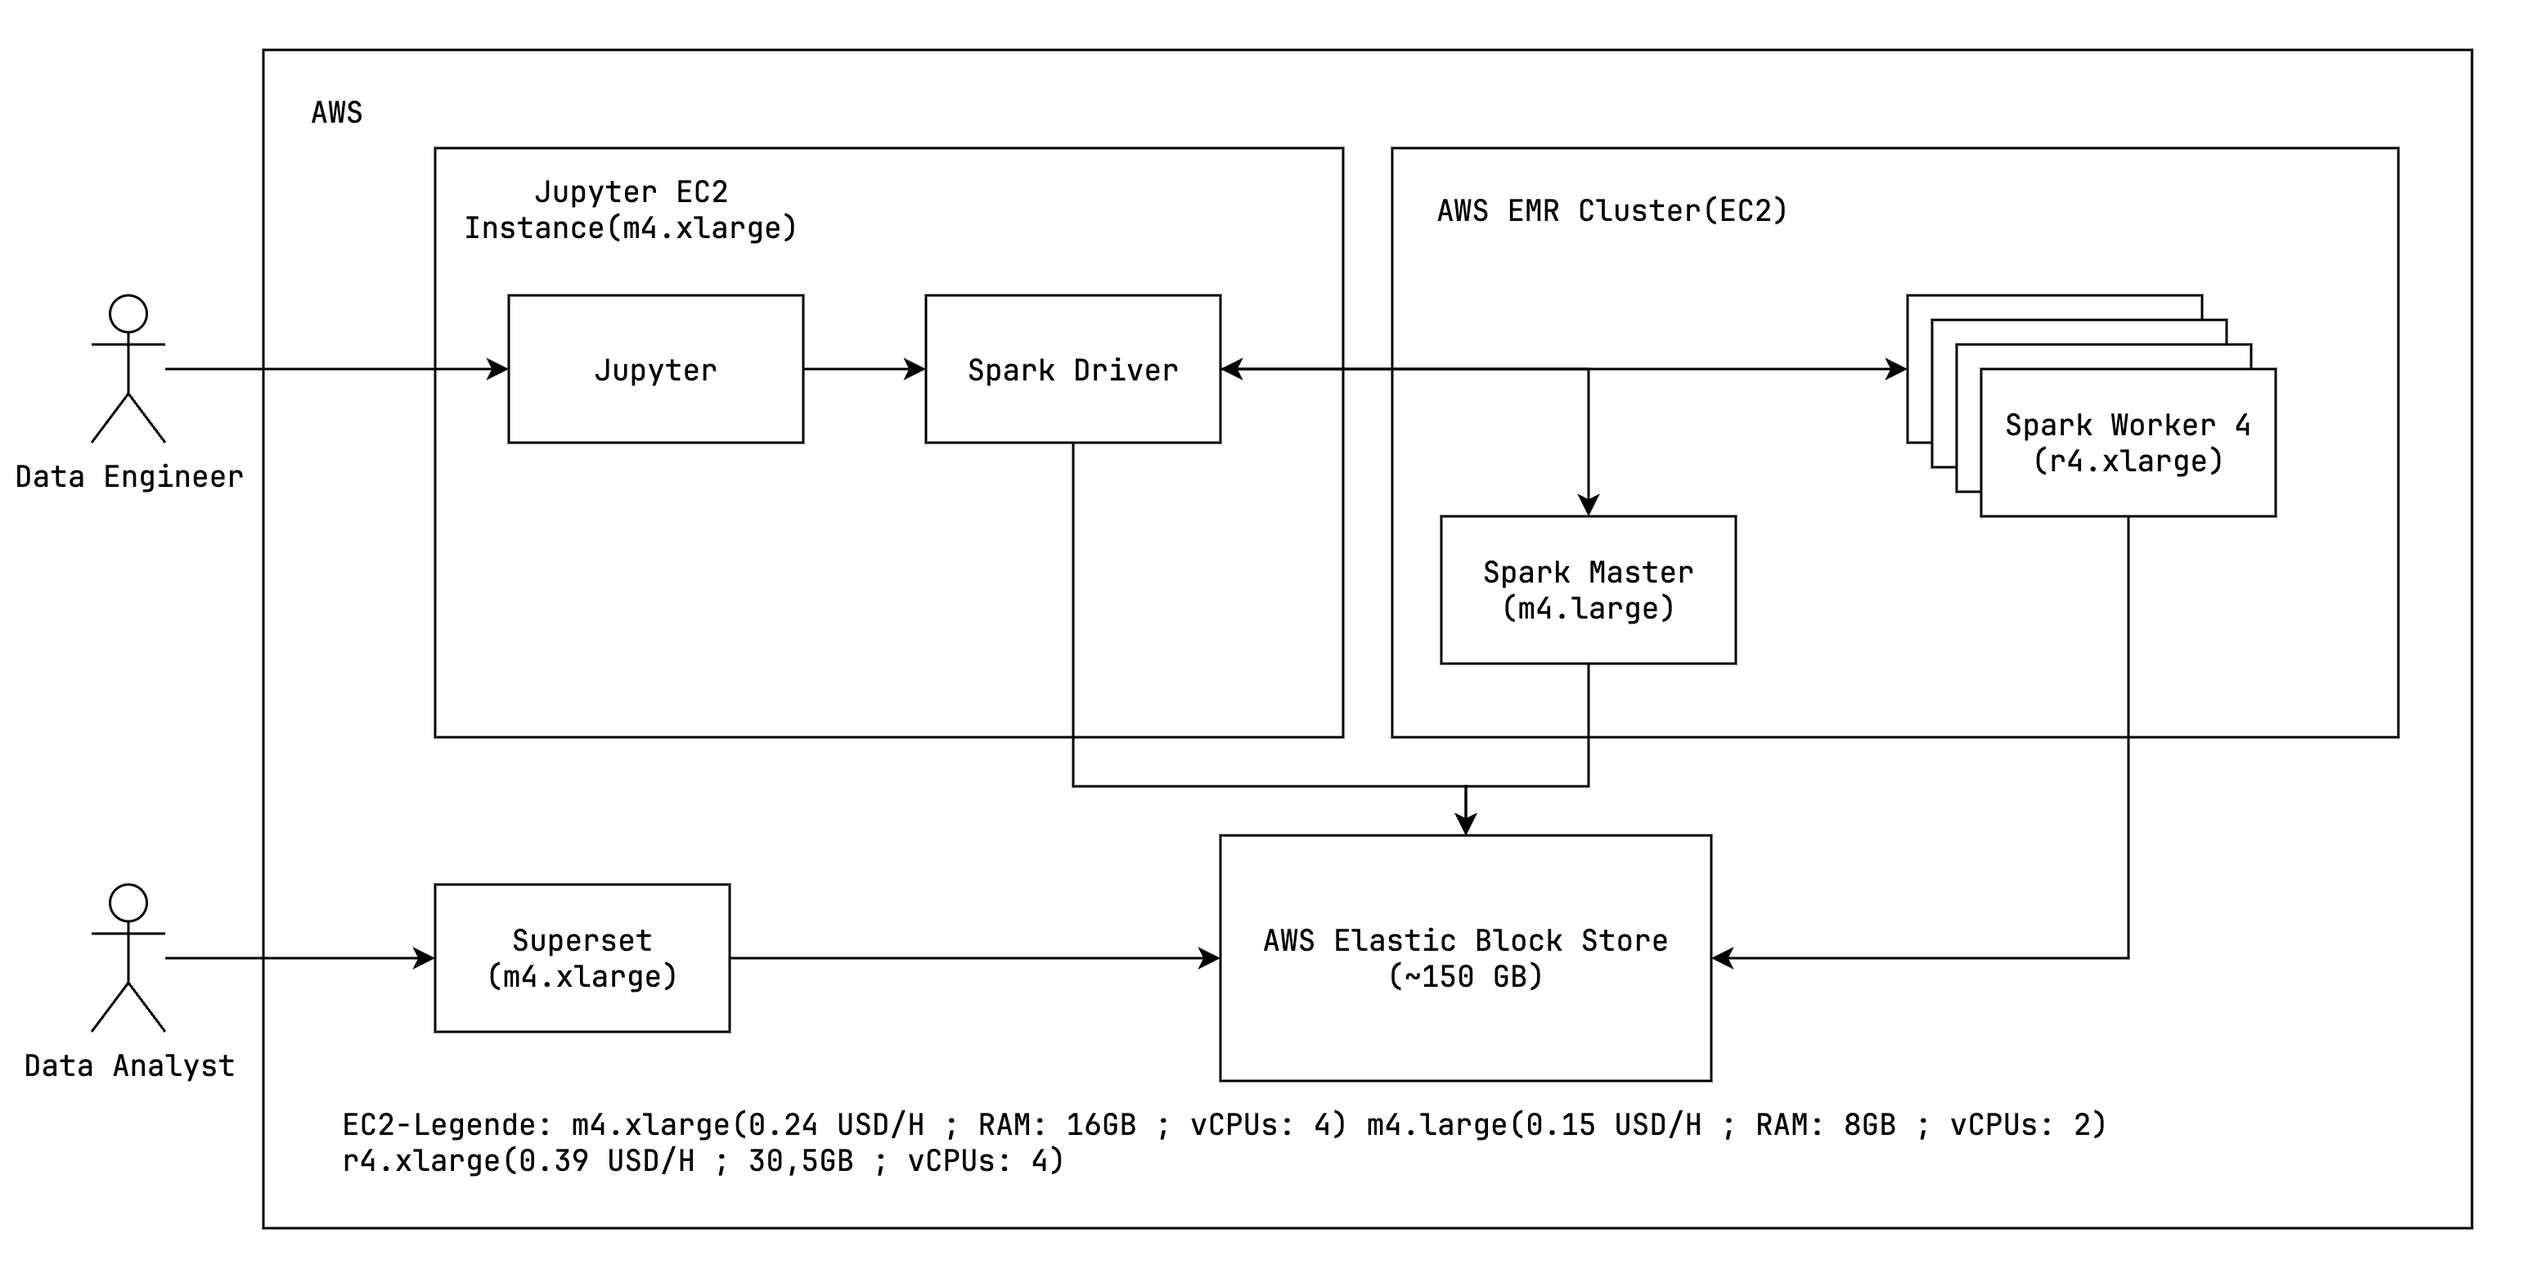
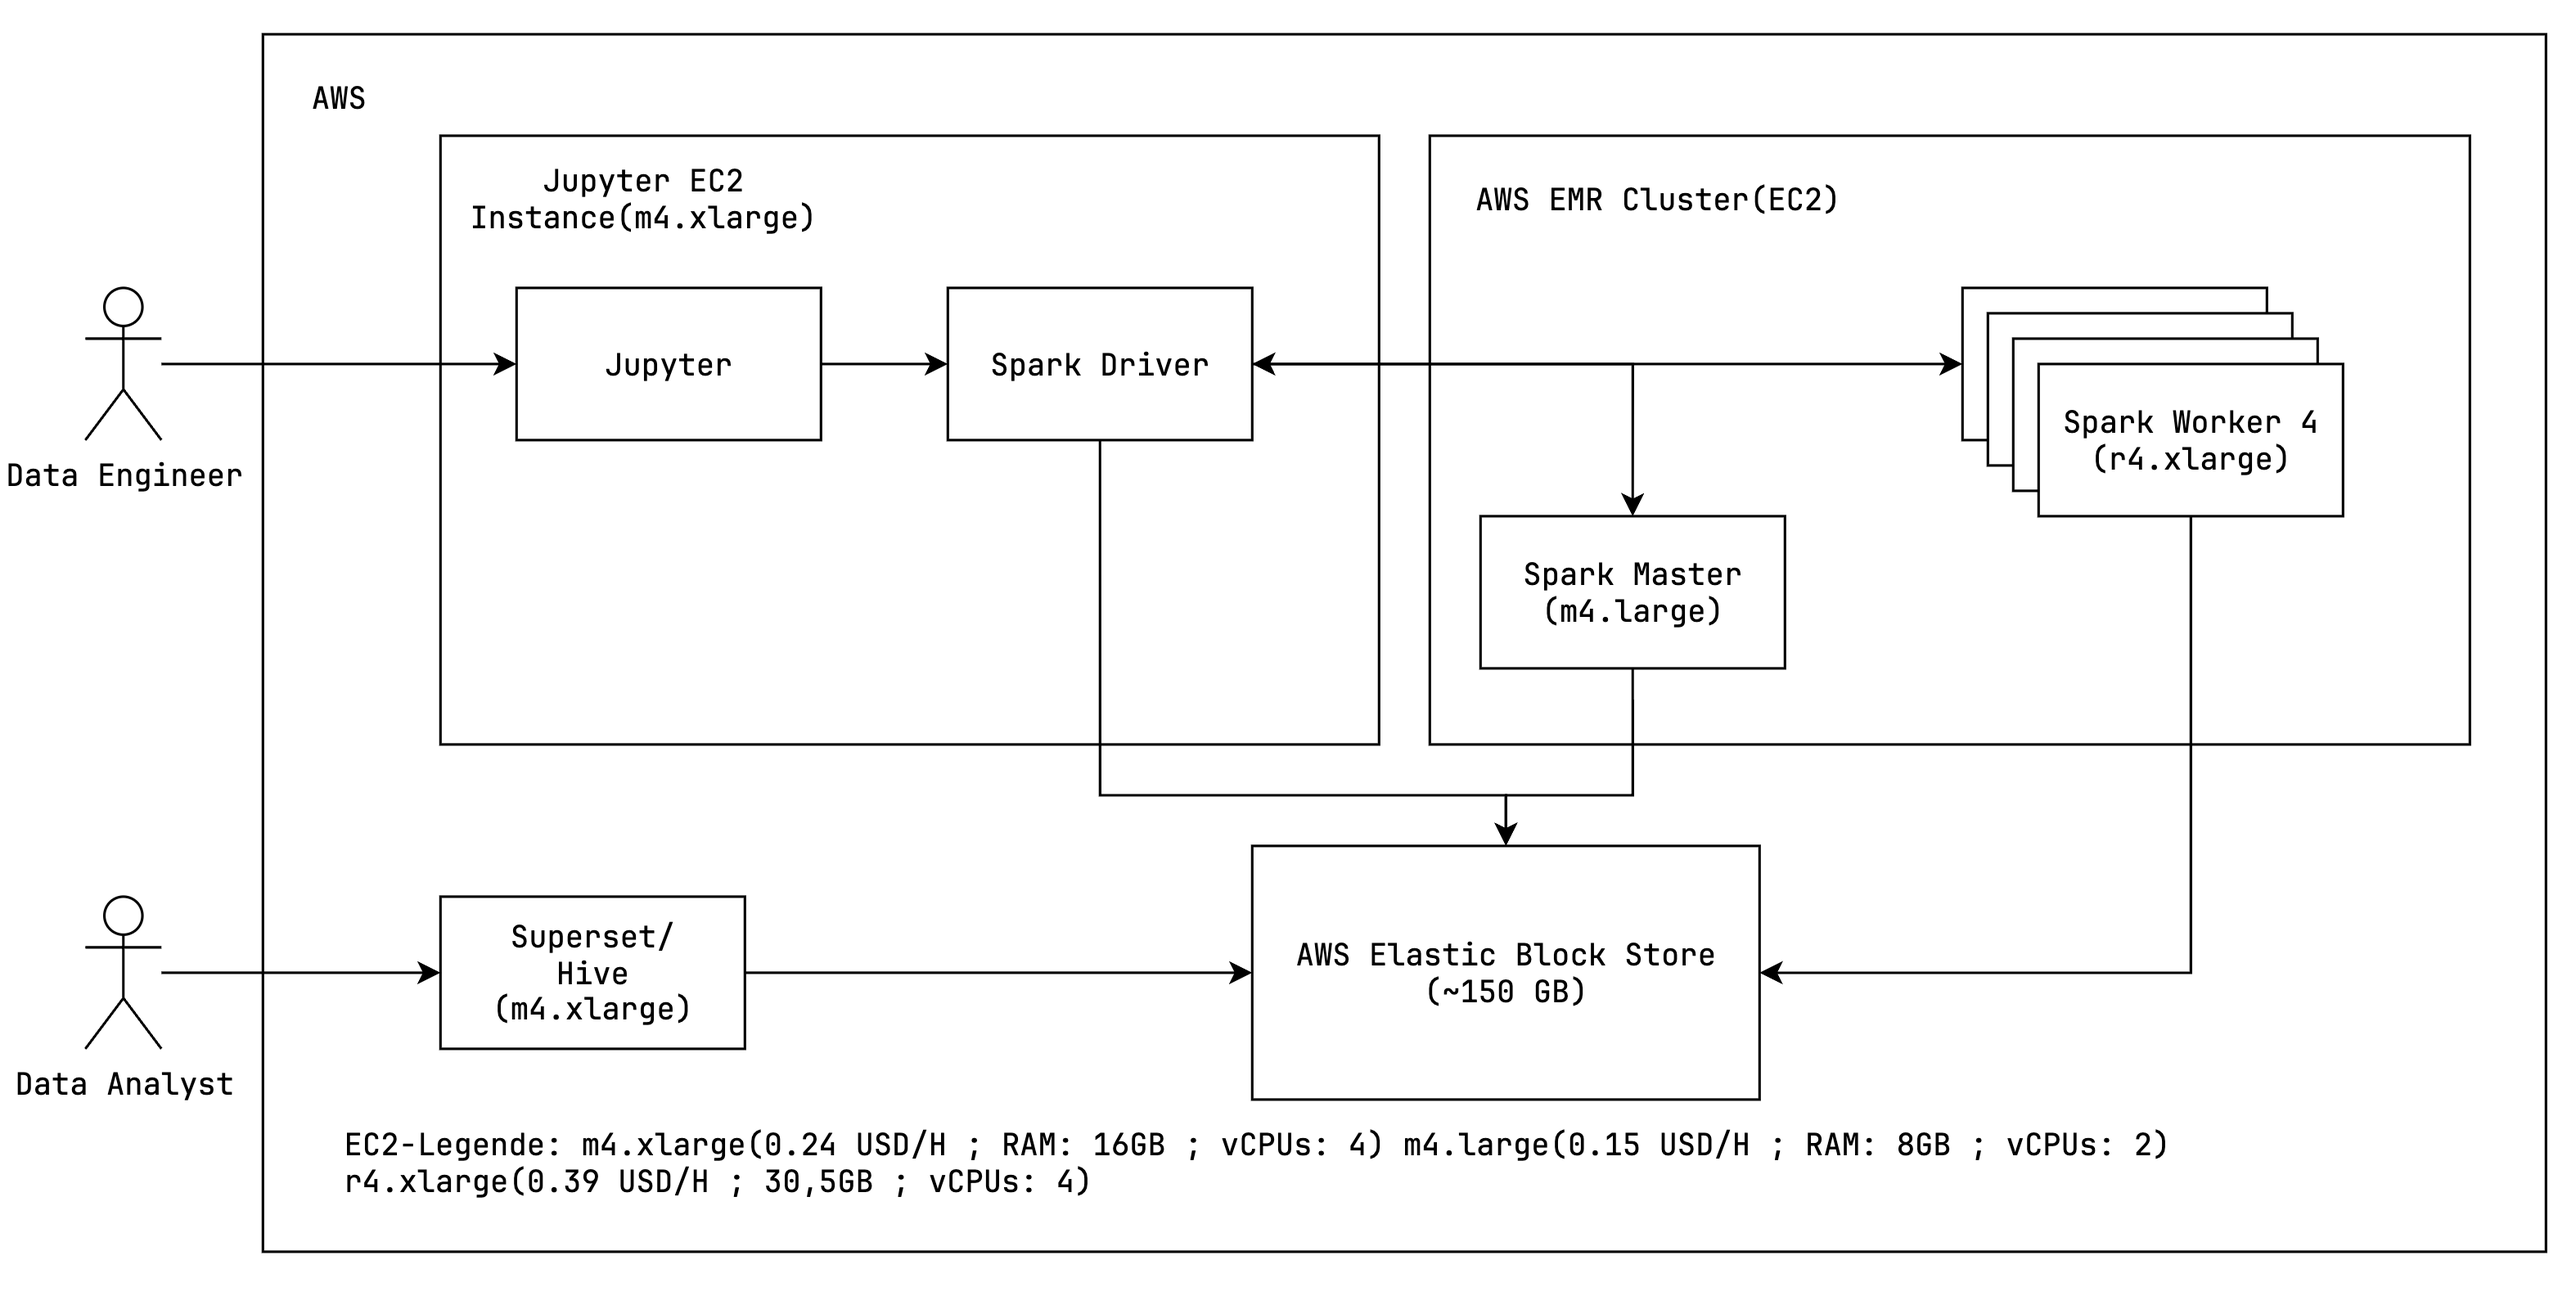
HiveUpdate

diff --git a/README.md b/README.md
@@ -801,8 +801,8 @@ EBS volumes are block-level storage volumes that can be attached to EC2 instance
 redundant. This means that the data is fault-tolerant and can be recovered if a failure occurs.
 This is an important improvement over the local filesystem which was used in the project. It is estimated that about
 150GB of data will be stored in the EBS volumes. This includes the raw data and the aggregated data. The businessdata
-will not be considered in this estimation. The data will be stored in the parquet format because it is a columnar
-storage format optimized for analytics workloads.
+will not be considered in this estimation. The data will be stored in the parquet format in EBS because it is a columnar
+storage format optimized for analytics workloads which can be directly imported into SuperSet.
 
 The data engineering team will work with a m4.xlarge EC2 instance in which a Jupyter server is running. The Jupyter
 server is used to run the application code of the project. The instance is configured with 16GB of RAM and 4 vCPUs.
@@ -813,20 +813,21 @@ amounts of data. The EMR cluster will be configured with four r4.xlarge EC2 inst
 with 30GB of RAM and 4 vCPUs. The master node will be a m4.large EC2 instance. The master node will be configured with
 8GB of RAM and 2 vCPUs.
 
-The data science team will work with a m4.xlarge EC2 instance in which a Jupyter server is running. The Jupyter server
-is used to run the application code of the project. The instance is configured with 16GB of RAM and 4 vCPUs.
-
 In this setup, the data engineering team will be responsible for preparing the data in fitting aggregates for the data
 science team to analyze. The data engineering team will use the Jupyter server to run the application code of the
 project. The data engineering team will also be responsible for managing the EMR cluster.
 The cluster will use the EBS volumes as storage so that it can access the raw preprocessed data. Furthermore, the
-cluster saves the aggregated data in the EBS volumes. This enables the data science team to access the aggregated data in
-Superset.
+cluster saves the aggregated data in the EBS volumes.
 
 It is estimated that the aggregated data will be small enough that big data frameworks like Spark are not necessary to
 process the data. Rather, the data can be processed with traditional data processing frameworks like Pandas or SuperSet.
 Because of this, the Thrift Server is not necessary and will not be used. Another reason for this is also that during
 the development of this project, the researchers weren't able to discover a way to scale the Thrift Server horizontally.
+
+The data analysis team will work with a m4.xlarge EC2 instance in which an Apache SuperSet and an Apache Hive instance are 
+running.
+The Hive instance can load the data from the parquet files which are stored in the EBS volumes and provide a HiveQL interface
+which can be queried. SuperSet can then query the data from the Hive instance and visualize it.
 
 The cost of this setup is estimated to be about 786.18$ per month. This includes the costs for the EBS volumes, the
 EC2 instances, and the EMR cluster. The costs for the EBS volumes are estimated to be about 17.85$ per month. The costs
